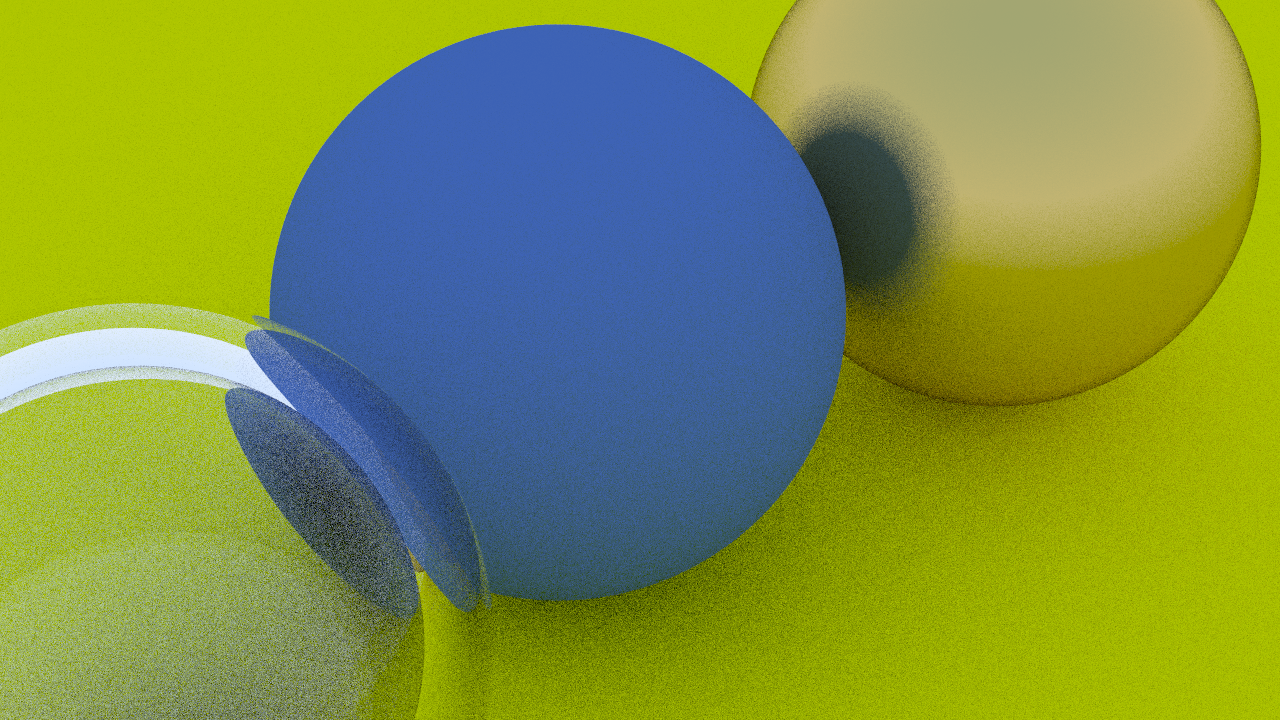
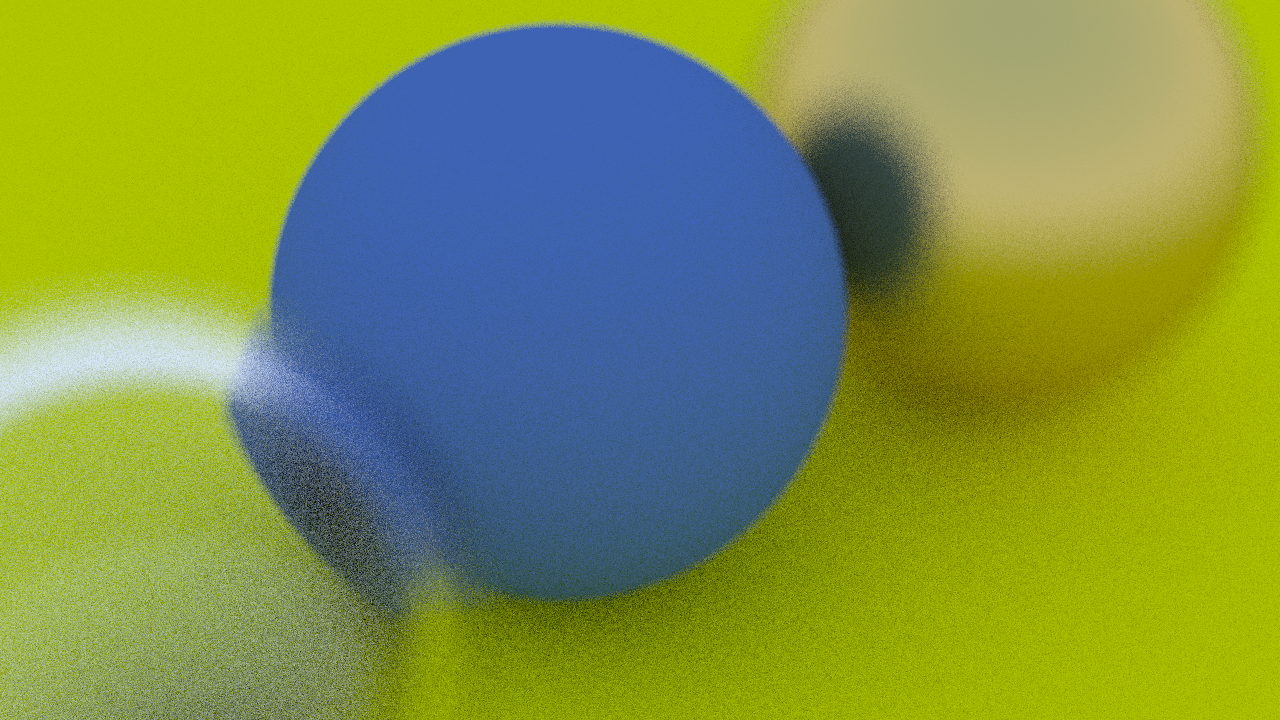
Add defocus blur

diff --git a/raytracer-weekend/camera.h b/raytracer-weekend/camera.h
@@ -23,6 +23,9 @@ public:
 	point3 lookat = point3(0, 0, -1);
 	vec3 vup = vec3(0, 1, 0);
 
+	double defocus_angle = 0.0;
+	double focus_dist = 10.0;
+
 
 	void render(const hittable& world){
 		initialize();
@@ -61,6 +64,8 @@ private:
 	vec3 pixel_delta_u;
 	vec3 pixel_delta_v;
 	vec3 u, v, w;
+	vec3 defocus_disk_u;
+	vec3 defocus_disk_v;
 	std::vector<unsigned char> pixels;
 
 	void initialize() {
@@ -77,11 +82,10 @@ private:
 
 		// Camera
 
-		auto focal_length = (lookfrom - lookat).length();
 		auto theta = degrees_to_radians(vfov);
 		auto h = std::tan(theta / 2);
 		// Viewport widths less than one are ok
-		auto viewport_height = 2.0 * h * focal_length;
+		auto viewport_height = 2.0 * h * focus_dist;
 		auto viewport_width = viewport_height * (double(image_width) / image_height); // Viewport width is scaled to the image width and height
 
 		// Calculate the u, v, w unit vectors
@@ -98,26 +102,33 @@ private:
 		pixel_delta_v = viewport_v / image_height;
 
 		// Calculate the location of the upper left pixel using viewport corner and pixel delta vectors
-		auto viewport_upper_left = center - (focal_length * w) - viewport_u / 2 - viewport_v / 2;
+		auto viewport_upper_left = center - (focus_dist * w) - viewport_u / 2 - viewport_v / 2;
 		pixel00_loc = viewport_upper_left + 0.5 * (pixel_delta_u + pixel_delta_v);
+
+		// Calculate the camera defocus disk basis vectors
+		auto defocus_radius = focus_dist * std::tan(degrees_to_radians(defocus_angle / 2));
+		defocus_disk_u = u * defocus_radius;
+		defocus_disk_v = v * defocus_radius;
 	}
 
 	ray get_ray(int i, int j) const {
 		auto offset = sample_square();
 		auto pixel_sample = pixel00_loc + ((i + offset.x()) * pixel_delta_u) + ((j + offset.y()) * pixel_delta_v);
-		auto ray_origin = center;
+		auto ray_origin = (defocus_angle <= 0) ? center : defocus_disk_sample();
 		// Orthoganal, not unit vector
-		auto ray_direction = pixel_sample - center;
+		auto ray_direction = pixel_sample - ray_origin;
 
 		return ray(ray_origin, ray_direction);
-
-
-		
 	}
 
 	vec3 sample_square() const {
 		// random_double() returns a value in [0,1]
 		return vec3(random_double() - 0.5, random_double() - 0.5, 0);
+	}
+
+	point3 defocus_disk_sample() const {
+		auto p = random_in_unit_disk();
+		return center + (p[0] * defocus_disk_u) + (p[1] * defocus_disk_v);
 	}
 
 	color ray_color(const ray& r, int depth,const hittable& world) const {

diff --git a/raytracer-weekend/vec3.h b/raytracer-weekend/vec3.h
@@ -118,6 +118,13 @@ inline vec3 random_unit_vector() {
 	}
 }
 
+inline vec3 random_in_unit_disk() {
+	while (true) {
+		auto p = vec3(random_double(-1, 1), random_double(-1, 1), 0);
+		if (p.length_squared() < 1) return p;
+	}
+}
+
 inline vec3 random_on_hemisphere(const vec3& normal) {
 	vec3 in_unit_sphere = random_unit_vector();
 	if (dot(in_unit_sphere, normal) > 0.0) // In the same hemisphere as the normal

diff --git a/raytracer-weekend/raytracer-weekend.cpp b/raytracer-weekend/raytracer-weekend.cpp
@@ -41,6 +41,9 @@ int main()
 	cam.lookat = point3(0, 0, -1);
 	cam.vup = vec3(0, 1, 0);
 
+	cam.defocus_angle = 10;
+	cam.focus_dist = 3.4;
+
 
 	// Render
 	auto start = std::chrono::high_resolution_clock::now();
